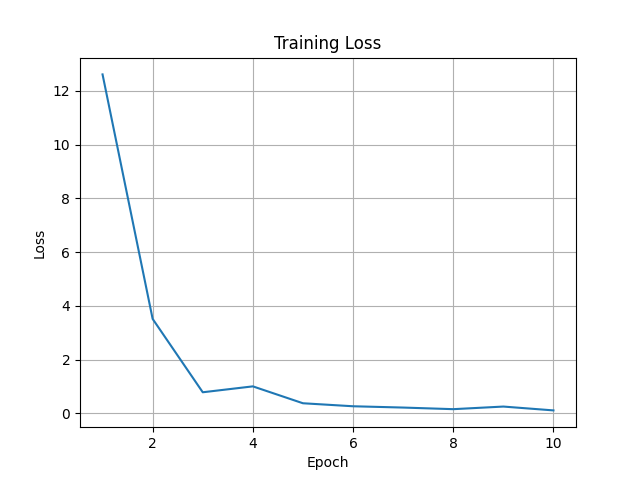
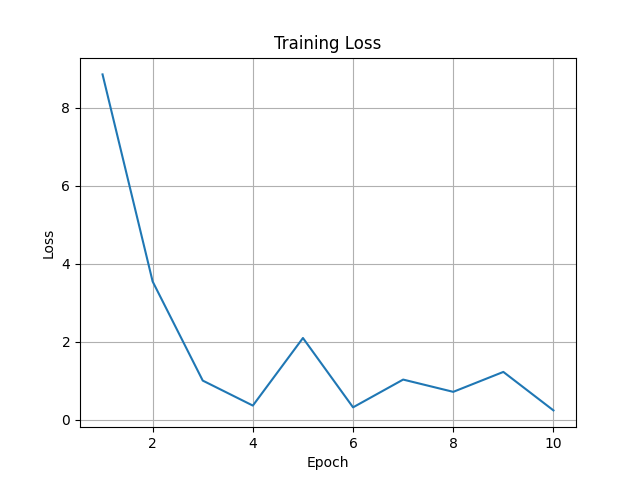
Add files via upload

diff --git a/project/main.py b/project/main.py
@@ -1,0 +1,98 @@
+import torch
+import torch.nn as nn
+import torch.optim as optim
+import matplotlib.pyplot as plt
+import os
+
+from model import CNN_deep
+from data_utils import get_transforms, get_datasets_and_loaders
+from train import Train
+from evaluate import Test
+from predict import predict_image
+
+# --- Configuration ---
+LR = 1e-3
+EPOCH = 10
+BATCH_SIZE = 4
+TRAIN_RATIO = 0.8
+NEW_MODEL_TRAIN = False  # True to train a new model, False to load a saved model
+
+DEVICE = "cuda" if torch.cuda.is_available() else "cpu"
+print(f"Using device: {DEVICE}")
+
+# Define paths (adjust as needed)
+BASE_PATH = "C:/Users/samsung-user/Documents/Deep_learning_textbooks/project"
+INPUT_PATH = os.path.join(BASE_PATH, "rotated_multiple")
+SAVE_MODEL_DIR = os.path.join(BASE_PATH, "model")
+SAVE_MODEL_PATH = os.path.join(SAVE_MODEL_DIR, "CNN_deep.pt")
+LOSS_PLOT_PATH = "loss_plot.png"
+TEST_IMAGE_PATH = os.path.join(BASE_PATH, "test.jpg")
+
+# Ensure model save directory exists
+os.makedirs(SAVE_MODEL_DIR, exist_ok=True)
+
+# --- Data Preparation ---
+transform = get_transforms()
+train_loader, val_loader, class_names = get_datasets_and_loaders(
+    INPUT_PATH, transform, batch_size=BATCH_SIZE, train_ratio=TRAIN_RATIO
+)
+
+num_class = len(class_names)
+print(f"Number of classes: {num_class}")
+print(f"Train dataset size: {len(train_loader.dataset)}")
+print(f"Validation dataset size: {len(val_loader.dataset)}")
+
+
+# --- Model Initialization ---
+model = CNN_deep(num_class).to(DEVICE)
+criterion = nn.CrossEntropyLoss()
+optimizer = optim.Adam(model.parameters(), lr=LR)
+
+print("\n--- Model Summary ---")
+print(model)
+print("---------------------\n")
+
+# --- Training or Loading Model ---
+if NEW_MODEL_TRAIN:
+    print("--- Starting Training ---")
+    loss_history = Train(model, train_loader, criterion, optimizer, EPOCH, DEVICE)
+
+    # Plotting and saving loss
+    plt.plot(range(1, EPOCH + 1), loss_history)
+    plt.xlabel("Epoch")
+    plt.ylabel("Loss")
+    plt.title("Training Loss")
+    plt.grid()
+    plt.savefig(LOSS_PLOT_PATH)
+    plt.close()  # Close the plot to free memory
+    print(f"Loss plot saved to {LOSS_PLOT_PATH}")
+
+    # Save the trained model
+    torch.save(model.state_dict(), SAVE_MODEL_PATH)
+    print(f"Model saved to {SAVE_MODEL_PATH}")
+else:
+    print(f"--- Loading pre-trained model from {SAVE_MODEL_PATH} ---")
+    if not os.path.exists(SAVE_MODEL_PATH):
+        print(
+            f"Error: Model file not found at {SAVE_MODEL_PATH}. Set NEW_MODEL_TRAIN to True to train a new model."
+        )
+        exit()  # Exit if model not found and not training new
+    model.load_state_dict(torch.load(SAVE_MODEL_PATH, map_location=DEVICE))
+    print("Model loaded successfully.")
+
+# --- Evaluation ---
+print("\n--- Starting Evaluation ---")
+val_accuracy = Test(model, val_loader, DEVICE)
+print(f"Validation Accuracy: {val_accuracy:.1f} %")
+
+# --- Prediction on a New Image ---
+print("\n--- Starting Prediction on a New Image ---")
+try:
+    pred_class_name, pred_class_idx = predict_image(
+        model, TEST_IMAGE_PATH, transform, class_names, DEVICE
+    )
+    print(
+        f"Predicted class for '{os.path.basename(TEST_IMAGE_PATH)}': {pred_class_name} (index: {pred_class_idx})"
+    )
+except FileNotFoundError as e:
+    print(f"Prediction error: {e}")

diff --git a/project/model.py b/project/model.py
@@ -1,0 +1,57 @@
+import torch
+import torch.nn as nn
+
+
+class CNN_deep(nn.Module):
+    def __init__(self, num_class):
+        super().__init__()
+        self.conv_block1 = nn.Sequential(
+            nn.Conv2d(3, 32, 3, padding=1),
+            nn.BatchNorm2d(32),
+            nn.ReLU(),
+            nn.Conv2d(32, 32, 3, padding=1),
+            nn.BatchNorm2d(32),
+            nn.ReLU(),
+        )
+        self.Maxpool1 = nn.MaxPool2d(2)
+
+        self.conv_block2 = nn.Sequential(
+            nn.Conv2d(32, 64, 3, padding=1),
+            nn.BatchNorm2d(64),
+            nn.ReLU(),
+            nn.Conv2d(64, 64, 3, padding=1),
+            nn.BatchNorm2d(64),
+            nn.ReLU(),
+            nn.Conv2d(64, 64, 3, padding=1),
+            nn.BatchNorm2d(64),
+            nn.ReLU(),
+        )
+        self.Maxpool2 = nn.MaxPool2d(2)
+
+        self.conv_block3 = nn.Sequential(
+            nn.Conv2d(64, 128, 3, padding=1),
+            nn.BatchNorm2d(128),
+            nn.ReLU(),
+            nn.Conv2d(128, 128, 3, padding=1),
+            nn.BatchNorm2d(128),
+            nn.ReLU(),
+            nn.Conv2d(128, 128, 3, padding=1),
+            nn.BatchNorm2d(128),
+            nn.ReLU(),
+        )
+        self.Maxpool3 = nn.MaxPool2d(2)
+
+        self.classifier = nn.Sequential(
+            nn.Linear(128 * 16 * 16, 512), nn.ReLU(), nn.Linear(512, num_class)
+        )
+
+    def forward(self, x):
+        x = self.conv_block1(x)
+        x = self.Maxpool1(x)
+        x = self.conv_block2(x)
+        x = self.Maxpool2(x)
+        x = self.conv_block3(x)
+        x = self.Maxpool3(x)
+        x = torch.flatten(x, start_dim=1)
+        x = self.classifier(x)
+        return x

diff --git a/project/train.py b/project/train.py
@@ -1,0 +1,50 @@
+import torch
+
+
+def Train(model, train_DL, criterion, optimizer, EPOCH, DEVICE):
+    """
+    주어진 모델을 학습 데이터로 훈련합니다.
+
+    Args:
+        model (nn.Module): 학습할 모델.
+        train_DL (DataLoader): 학습 데이터 로더.
+        criterion (nn.Module): 손실 함수.
+        optimizer (torch.optim.Optimizer): 옵티마이저.
+        EPOCH (int): 학습할 에폭(epoch) 수.
+        DEVICE (str): 학습을 수행할 장치 ('cuda' 또는 'cpu').
+
+    Returns:
+        list: 각 에폭(epoch)의 평균 학습 손실 리스트.
+    """
+    loss_history = []
+    NoT = len(train_DL.dataset)  # The number of training data
+
+    model.train()  # Set model to training mode
+    for ep in range(EPOCH):
+        rloss = 0  # Running loss: accumulate loss per batch
+        for x_batch, y_batch in train_DL:
+            x_batch = x_batch.to(DEVICE)
+            y_batch = y_batch.to(DEVICE)
+
+            # Inference
+            y_hat = model(x_batch)
+
+            # Loss
+            loss = criterion(y_hat, y_batch)
+
+            # Update
+            optimizer.zero_grad()  # Reset gradients
+            loss.backward()  # Backpropagation
+            optimizer.step()  # Weight update
+
+            # Accumulate loss (batch average loss * batch size)
+            loss_b = loss.item() * x_batch.shape[0]
+            rloss += loss_b  # Accumulate loss for the current epoch
+
+        # Print epoch loss
+        loss_e = rloss / NoT  # Average loss for the entire epoch
+        loss_history.append(loss_e)
+        print(f"Epoch: {ep+1}, train loss: {loss_e:.4f}")
+        print("-" * 20)
+
+    return loss_history

diff --git a/project/data_utils.py b/project/data_utils.py
@@ -1,0 +1,46 @@
+import torch
+from torchvision import datasets, transforms
+from torch.utils.data import DataLoader
+
+
+def get_transforms():
+    """
+    데이터 전처리 및 증강을 위한 transforms 객체를 반환합니다.
+    """
+    return transforms.Compose(
+        [
+            transforms.Resize((128, 128)),
+            transforms.ToTensor(),  # [0,255] -> [0,1]
+            transforms.Normalize(
+                [0.485, 0.456, 0.406], [0.229, 0.224, 0.225]  # ImageNet average and std
+            ),
+        ]
+    )
+
+
+def get_datasets_and_loaders(input_path, transform, batch_size=4, train_ratio=0.8):
+    """
+    ImageFolder 데이터셋을 로드하고, 학습 및 검증 데이터셋으로 분할하며,
+    해당 데이터셋에 대한 DataLoader를 생성합니다.
+
+    Args:
+        input_path (str): 이미지 데이터셋의 루트 경로.
+        transform (torchvision.transforms.Compose): 이미지 변환 객체.
+        batch_size (int): DataLoader의 배치 크기.
+        train_ratio (float): 학습 데이터셋의 비율.
+
+    Returns:
+        tuple: (train_loader, val_loader, dataset.classes)
+    """
+    dataset = datasets.ImageFolder(root=input_path, transform=transform)
+
+    train_size = int(train_ratio * len(dataset))
+    val_size = len(dataset) - train_size
+    train_dataset, val_dataset = torch.utils.data.random_split(
+        dataset, [train_size, val_size]
+    )
+
+    train_loader = DataLoader(train_dataset, batch_size=batch_size, shuffle=True)
+    val_loader = DataLoader(val_dataset, batch_size=batch_size, shuffle=False)
+
+    return train_loader, val_loader, dataset.classes

diff --git a/project/predict.py b/project/predict.py
@@ -1,0 +1,32 @@
+import torch
+from PIL import Image
+import os
+
+
+def predict_image(model, image_path, transform, class_names, DEVICE):
+    """
+    새로운 이미지에 대해 모델 예측을 수행하고 예측된 클래스 이름을 반환합니다.
+
+    Args:
+        model (nn.Module): 예측에 사용할 학습된 모델.
+        image_path (str): 예측할 이미지의 경로.
+        transform (torchvision.transforms.Compose): 이미지 변환 객체.
+        class_names (list): 데이터셋의 클래스 이름 리스트.
+        DEVICE (str): 예측을 수행할 장치 ('cuda' 또는 'cpu').
+
+    Returns:
+        tuple: (pred_class_name, pred_class_idx) 예측된 클래스 이름과 인덱스.
+    """
+    if not os.path.exists(image_path):
+        raise FileNotFoundError(f"Image not found at: {image_path}")
+
+    img = Image.open(image_path).convert("RGB")
+    img_tensor = transform(img).unsqueeze(0).to(DEVICE)  # Add batch dimension
+
+    model.eval()
+    with torch.no_grad():
+        output = model(img_tensor)
+        pred_class_idx = output.argmax(dim=1).item()
+
+    pred_class_name = class_names[pred_class_idx]
+    return pred_class_name, pred_class_idx

diff --git a/project/evaluate.py b/project/evaluate.py
@@ -1,0 +1,34 @@
+import torch
+
+
+def Test(model, test_DL, DEVICE):
+    """
+    주어진 모델을 테스트 데이터로 평가하고 정확도를 반환합니다.
+
+    Args:
+        model (nn.Module): 평가할 모델.
+        test_DL (DataLoader): 테스트 데이터 로더.
+        DEVICE (str): 평가를 수행할 장치 ('cuda' 또는 'cpu').
+
+    Returns:
+        float: 테스트 정확도 (%).
+    """
+    model.eval()  # Set model to evaluation mode
+    with torch.no_grad():
+        rcorrect = 0
+        for x_batch, y_batch in test_DL:
+            x_batch = x_batch.to(DEVICE)
+            y_batch = y_batch.to(DEVICE)
+
+            # Inference
+            y_hat = model(x_batch)
+
+            # Corrects accumulation
+            pred = y_hat.argmax(dim=1)
+            corrects_b = torch.sum(pred == y_batch).item()
+            rcorrect += corrects_b
+
+        accuracy_e = rcorrect / len(test_DL.dataset) * 100
+
+    print(f"Test accuracy: {rcorrect}/{len(test_DL.dataset)} ({accuracy_e:.1f} %)")
+    return round(accuracy_e, 1)
